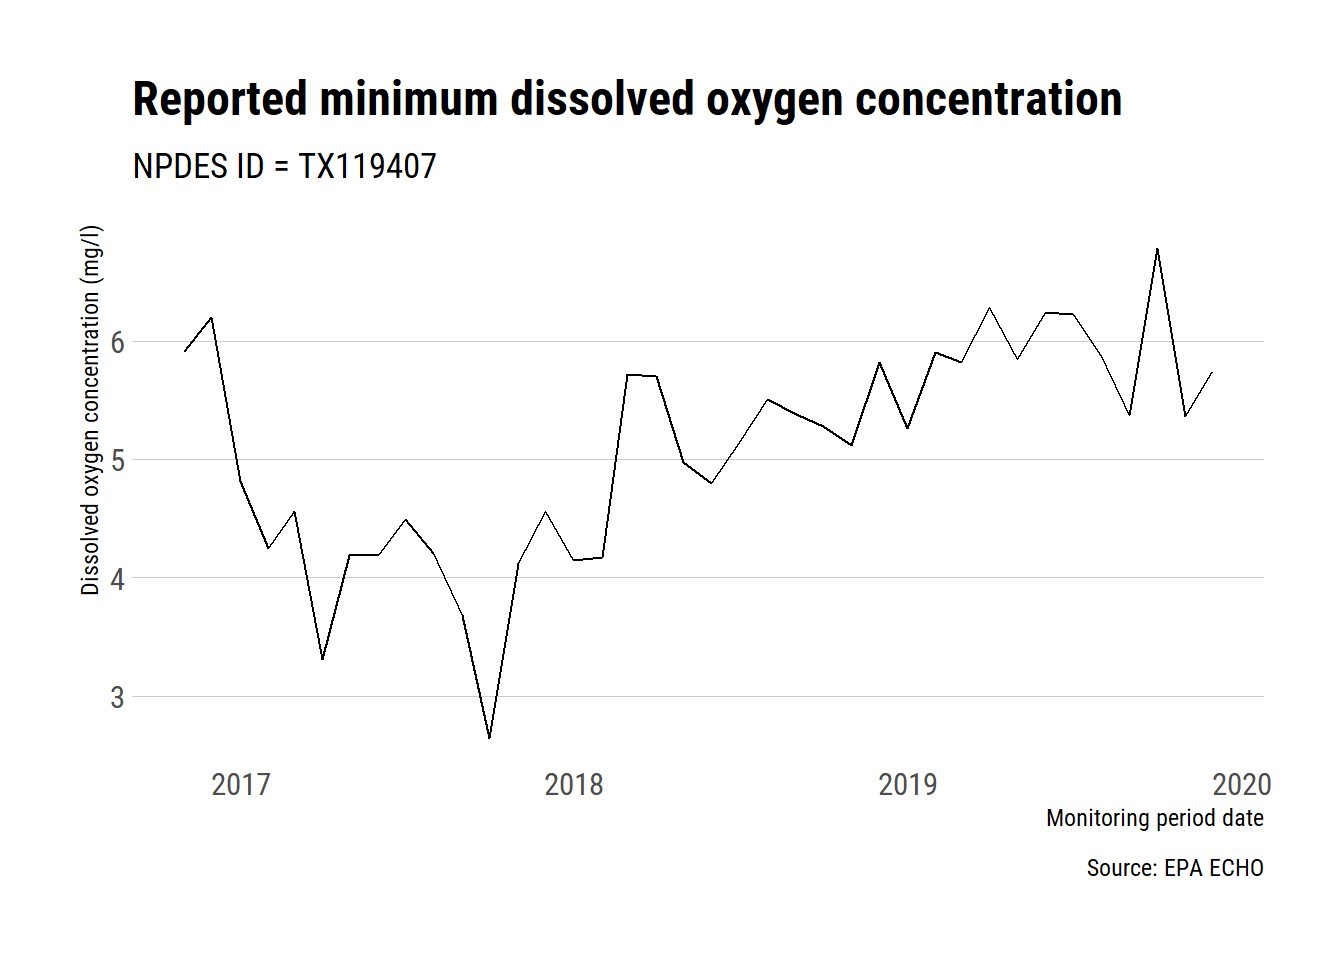
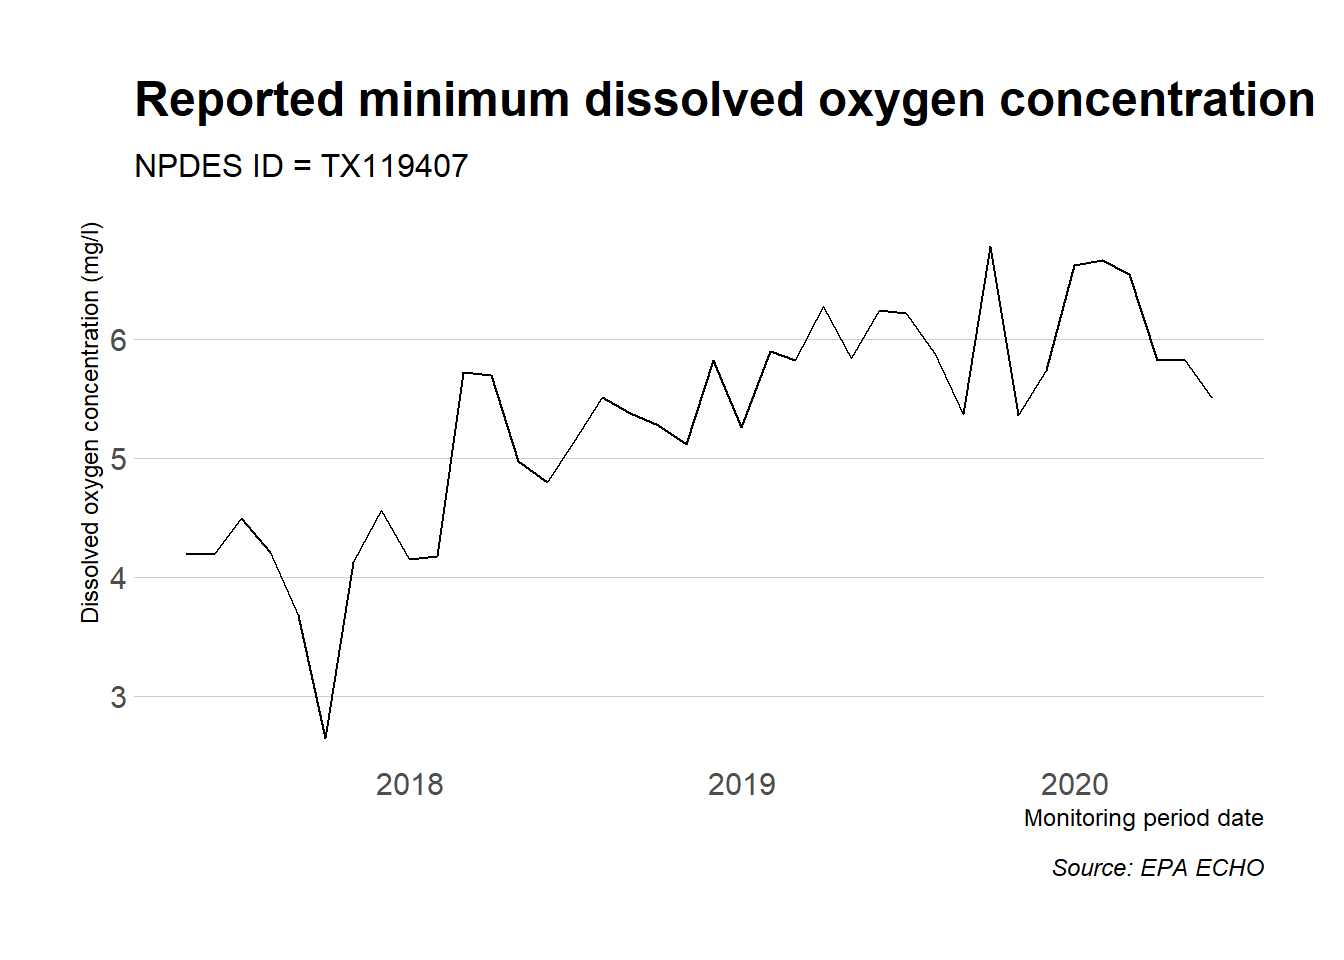
build README

diff --git a/README.md b/README.md
@@ -12,6 +12,7 @@ status](https://travis-ci.org/mps9506/echor.svg?branch=master)](https://travis-c
 status](https://ci.appveyor.com/api/projects/status/github/mps9506/echor?branch=master&svg=true)](https://ci.appveyor.com/project/mps9506/echor)
 [![Coverage
 status](https://codecov.io/gh/mps9506/echor/branch/master/graph/badge.svg)](https://codecov.io/github/mps9506/echor?branch=master)
+[![DOI](https://zenodo.org/badge/122131508.svg)](https://zenodo.org/badge/latestdoi/122131508)
 
 ## Overview
 
@@ -29,7 +30,7 @@ install.packages("echor")
 Or install the development version from github:
 
 ``` r
-devtools::install_github("mps9506/echor")
+remotes::install_github("mps9506/echor")
 ```
 
 ## Usage
@@ -71,10 +72,10 @@ head(df)
 #> # ... with 19 more variables: MasterExternalPermitNmbr <chr>, RegistryID <chr>,
 #> #   CWPCounty <chr>, CWPEPARegion <chr>, FacDerivedHuc <chr>, FacLat <dbl>,
 #> #   FacLong <dbl>, CWPTotalDesignFlowNmbr <dbl>,
-#> #   CWPActualAverageFlowNmbr <dbl>, DschToMs4 <chr>, ExposedActivity <chr>,
-#> #   Subsector <chr>, CWPVersionNmbr <dbl>, SubmittedDate <date>,
-#> #   CWPPermitTypeDesc <chr>, CWPIssueDate <date>, CWPTerminationDate <date>,
-#> #   CWPSNCStatus <chr>, CWPCsoOutfalls <dbl>
+#> #   CWPActualAverageFlowNmbr <dbl>, ReceivingMs4Name <chr>,
+#> #   AssociatedPollutant <chr>, MsgpPermitType <chr>, CWPPermitStatusDesc <chr>,
+#> #   CWPPermitTypeDesc <chr>, CWPIssueDate <date>, CWPEffectiveDate <date>,
+#> #   CWPExpirationDate <date>, CWPSNCStatusDate <date>, StateAuthGen <chr>
 ```
 
 The ECHO database can provide over 270 different columns. echor returns
@@ -143,7 +144,7 @@ ggmap(collegestation) +
   geom_label_repel(data = df, aes(x = coords_x, y = coords_y, label = SourceID),
                    point.padding = .5, min.segment.length = 0.1,
                    size = 2, color = "dodgerblue") +
-  theme_ipsum_rc(plot_margin = margin(5, 5, 5, 5)) +
+  theme_ipsum(plot_margin = margin(5, 5, 5, 5)) +
   labs(x = "Longitude", y = "Latitude", 
        title = "NPDES permits near Texas A&M",
        caption = "Source: EPA ECHO database")
@@ -169,7 +170,7 @@ df <- df %>%
 
 ggplot(df) +
   geom_line(aes(monitoring_period_end_date, dmr_value_nmbr)) +
-  theme_ipsum_rc(grid = "Y") +
+  theme_ipsum(grid = "Y") +
   labs(x = "Monitoring period date",
        y = "Dissolved oxygen concentration (mg/l)",
        title = "Reported minimum dissolved oxygen concentration",
@@ -184,7 +185,7 @@ ggplot(df) +
 ``` r
 sessioninfo::platform_info()
 #>  setting  value                       
-#>  version  R version 3.5.3 (2019-03-11)
+#>  version  R version 4.0.0 (2020-04-24)
 #>  os       Windows 10 x64              
 #>  system   x86_64, mingw32             
 #>  ui       RTerm                       
@@ -192,89 +193,95 @@ sessioninfo::platform_info()
 #>  collate  English_United States.1252  
 #>  ctype    English_United States.1252  
 #>  tz       America/Chicago             
-#>  date     2020-01-16
+#>  date     2020-06-17
 sessioninfo::package_info()
-#>  package     * version date       lib source                       
-#>  assertthat    0.2.1   2019-03-21 [1] CRAN (R 3.5.3)               
-#>  backports     1.1.5   2019-10-02 [1] CRAN (R 3.5.3)               
-#>  bitops        1.0-6   2013-08-17 [1] CRAN (R 3.5.2)               
-#>  broom         0.5.2   2019-04-07 [1] CRAN (R 3.5.3)               
-#>  cellranger    1.1.0   2016-07-27 [1] CRAN (R 3.5.3)               
-#>  class         7.3-15  2019-01-01 [1] CRAN (R 3.5.3)               
-#>  classInt      0.4-2   2019-10-17 [1] CRAN (R 3.5.3)               
-#>  cli           1.1.0   2019-03-19 [1] CRAN (R 3.5.3)               
-#>  colorspace    1.4-1   2019-03-18 [1] CRAN (R 3.5.3)               
-#>  crayon        1.3.4   2017-09-16 [1] CRAN (R 3.5.3)               
-#>  curl          4.2     2019-09-24 [1] CRAN (R 3.5.3)               
-#>  DBI           1.0.0   2018-05-02 [1] CRAN (R 3.5.3)               
-#>  digest        0.6.23  2019-11-23 [1] CRAN (R 3.5.3)               
-#>  dplyr       * 0.8.3   2019-07-04 [1] CRAN (R 3.5.3)               
-#>  e1071         1.7-3   2019-11-26 [1] CRAN (R 3.5.3)               
-#>  echor       * 0.1.4   2020-01-16 [1] local                        
-#>  evaluate      0.13    2019-02-12 [1] CRAN (R 3.5.3)               
-#>  extrafont   * 0.17    2014-12-08 [1] CRAN (R 3.5.2)               
-#>  extrafontdb   1.0     2012-06-11 [1] CRAN (R 3.5.2)               
-#>  fansi         0.4.0   2018-10-05 [1] CRAN (R 3.5.3)               
-#>  forcats     * 0.4.0   2019-02-17 [1] CRAN (R 3.5.3)               
-#>  gdtools       0.1.7   2018-02-27 [1] CRAN (R 3.5.3)               
-#>  generics      0.0.2   2018-11-29 [1] CRAN (R 3.5.3)               
-#>  geojsonsf     1.3.0   2019-01-10 [1] CRAN (R 3.5.3)               
-#>  ggmap       * 3.0.0   2019-02-05 [1] CRAN (R 3.5.3)               
-#>  ggplot2     * 3.2.1   2019-08-10 [1] CRAN (R 3.5.3)               
-#>  ggrepel     * 0.8.1   2019-05-07 [1] CRAN (R 3.5.3)               
-#>  glue          1.3.1   2019-03-12 [1] CRAN (R 3.5.3)               
-#>  gtable        0.3.0   2019-03-25 [1] CRAN (R 3.5.3)               
-#>  haven         2.1.0   2019-02-19 [1] CRAN (R 3.5.3)               
-#>  hms           0.4.2   2018-03-10 [1] CRAN (R 3.5.3)               
-#>  hrbrthemes  * 0.6.0   2019-01-21 [1] CRAN (R 3.5.3)               
-#>  htmltools     0.3.6   2017-04-28 [1] CRAN (R 3.5.3)               
-#>  httr          1.4.1   2019-08-05 [1] CRAN (R 3.5.3)               
-#>  jpeg          0.1-8   2014-01-23 [1] CRAN (R 3.5.2)               
-#>  jsonlite      1.6     2018-12-07 [1] CRAN (R 3.5.3)               
-#>  KernSmooth    2.23-15 2015-06-29 [1] CRAN (R 3.5.3)               
-#>  knitr         1.26    2019-11-12 [1] CRAN (R 3.5.3)               
-#>  labeling      0.3     2014-08-23 [1] CRAN (R 3.5.2)               
-#>  lattice       0.20-38 2018-11-04 [1] CRAN (R 3.5.3)               
-#>  lazyeval      0.2.2   2019-03-15 [1] CRAN (R 3.5.3)               
-#>  lifecycle     0.1.0   2019-08-01 [1] CRAN (R 3.5.3)               
-#>  lubridate     1.7.4   2018-04-11 [1] CRAN (R 3.5.3)               
-#>  magrittr      1.5     2014-11-22 [1] CRAN (R 3.5.3)               
-#>  modelr        0.1.4   2019-02-18 [1] CRAN (R 3.5.3)               
-#>  munsell       0.5.0   2018-06-12 [1] CRAN (R 3.5.3)               
-#>  nlme          3.1-137 2018-04-07 [1] CRAN (R 3.5.3)               
-#>  pillar        1.4.2   2019-06-29 [1] CRAN (R 3.5.3)               
-#>  pkgconfig     2.0.3   2019-09-22 [1] CRAN (R 3.5.3)               
-#>  plyr          1.8.4   2016-06-08 [1] CRAN (R 3.5.3)               
-#>  png           0.1-7   2013-12-03 [1] CRAN (R 3.5.2)               
-#>  purrr       * 0.3.3   2019-10-18 [1] CRAN (R 3.5.3)               
-#>  R6            2.4.1   2019-11-12 [1] CRAN (R 3.5.3)               
-#>  Rcpp          1.0.3   2019-11-08 [1] CRAN (R 3.5.3)               
-#>  readr       * 1.3.1   2018-12-21 [1] CRAN (R 3.5.3)               
-#>  readxl        1.3.1   2019-03-13 [1] CRAN (R 3.5.3)               
-#>  RgoogleMaps   1.4.4   2019-08-20 [1] CRAN (R 3.5.3)               
-#>  rjson         0.2.20  2018-06-08 [1] CRAN (R 3.5.2)               
-#>  rlang         0.4.2   2019-11-23 [1] CRAN (R 3.5.3)               
-#>  rmarkdown     2.0     2019-12-12 [1] CRAN (R 3.5.3)               
-#>  rstudioapi    0.10    2019-03-19 [1] CRAN (R 3.5.3)               
-#>  Rttf2pt1      1.3.7   2018-06-29 [1] CRAN (R 3.5.2)               
-#>  rvest         0.3.2   2016-06-17 [1] CRAN (R 3.5.3)               
-#>  scales        1.0.0   2018-08-09 [1] CRAN (R 3.5.3)               
-#>  sessioninfo   1.1.1   2018-11-05 [1] CRAN (R 3.5.3)               
-#>  sf          * 0.8-1   2019-12-12 [1] Github (r-spatial/sf@60208b7)
-#>  stringi       1.4.3   2019-03-12 [1] CRAN (R 3.5.3)               
-#>  stringr     * 1.4.0   2019-02-10 [1] CRAN (R 3.5.3)               
-#>  tibble      * 2.1.3   2019-06-06 [1] CRAN (R 3.5.3)               
-#>  tidyr       * 1.0.0   2019-09-11 [1] CRAN (R 3.5.3)               
-#>  tidyselect    0.2.5   2018-10-11 [1] CRAN (R 3.5.3)               
-#>  tidyverse   * 1.2.1   2017-11-14 [1] CRAN (R 3.5.3)               
-#>  units         0.6-5   2019-10-08 [1] CRAN (R 3.5.3)               
-#>  utf8          1.1.4   2018-05-24 [1] CRAN (R 3.5.3)               
-#>  vctrs         0.2.0   2019-07-05 [1] CRAN (R 3.5.3)               
-#>  withr         2.1.2   2018-03-15 [1] CRAN (R 3.5.3)               
-#>  xfun          0.12    2020-01-13 [1] CRAN (R 3.5.3)               
-#>  xml2          1.2.2   2019-08-09 [1] CRAN (R 3.5.3)               
-#>  yaml          2.2.0   2018-07-25 [1] CRAN (R 3.5.2)               
-#>  zeallot       0.1.0   2018-01-28 [1] CRAN (R 3.5.3)               
+#>  package     * version    date       lib source        
+#>  assertthat    0.2.1      2019-03-21 [1] CRAN (R 4.0.0)
+#>  backports     1.1.6      2020-04-05 [1] CRAN (R 4.0.0)
+#>  bitops        1.0-6      2013-08-17 [1] CRAN (R 4.0.0)
+#>  broom         0.5.6      2020-04-20 [1] CRAN (R 4.0.0)
+#>  cellranger    1.1.0      2016-07-27 [1] CRAN (R 4.0.0)
+#>  class         7.3-16     2020-03-25 [2] CRAN (R 4.0.0)
+#>  classInt      0.4-3      2020-04-07 [1] CRAN (R 4.0.0)
+#>  cli           2.0.2      2020-02-28 [1] CRAN (R 4.0.0)
+#>  colorspace    1.4-1      2019-03-18 [1] CRAN (R 4.0.0)
+#>  crayon        1.3.4      2017-09-16 [1] CRAN (R 4.0.0)
+#>  curl          4.3        2019-12-02 [1] CRAN (R 4.0.0)
+#>  DBI           1.1.0      2019-12-15 [1] CRAN (R 4.0.0)
+#>  dbplyr        1.4.3      2020-04-19 [1] CRAN (R 4.0.0)
+#>  digest        0.6.25     2020-02-23 [1] CRAN (R 4.0.0)
+#>  dplyr       * 0.8.5      2020-03-07 [1] CRAN (R 4.0.0)
+#>  e1071         1.7-3      2019-11-26 [1] CRAN (R 4.0.0)
+#>  echor       * 0.1.4.9999 2020-06-17 [1] local         
+#>  ellipsis      0.3.0      2019-09-20 [1] CRAN (R 4.0.0)
+#>  evaluate      0.14       2019-05-28 [1] CRAN (R 4.0.0)
+#>  extrafont   * 0.17       2014-12-08 [1] CRAN (R 4.0.0)
+#>  extrafontdb   1.0        2012-06-11 [1] CRAN (R 4.0.0)
+#>  fansi         0.4.1      2020-01-08 [1] CRAN (R 4.0.0)
+#>  farver        2.0.3      2020-01-16 [1] CRAN (R 4.0.0)
+#>  forcats     * 0.5.0      2020-03-01 [1] CRAN (R 4.0.0)
+#>  fs            1.4.1      2020-04-04 [1] CRAN (R 4.0.0)
+#>  gdtools       0.2.2      2020-04-03 [1] CRAN (R 4.0.0)
+#>  generics      0.0.2      2018-11-29 [1] CRAN (R 4.0.0)
+#>  geojsonsf     1.3.3      2020-03-18 [1] CRAN (R 4.0.0)
+#>  ggmap       * 3.0.0      2019-02-04 [1] CRAN (R 4.0.0)
+#>  ggplot2     * 3.3.0      2020-03-05 [1] CRAN (R 4.0.0)
+#>  ggrepel     * 0.8.2      2020-03-08 [1] CRAN (R 4.0.0)
+#>  glue          1.4.0      2020-04-03 [1] CRAN (R 4.0.0)
+#>  gtable        0.3.0      2019-03-25 [1] CRAN (R 4.0.0)
+#>  haven         2.2.0      2019-11-08 [1] CRAN (R 4.0.0)
+#>  hms           0.5.3      2020-01-08 [1] CRAN (R 4.0.0)
+#>  hrbrthemes  * 0.8.0      2020-03-06 [1] CRAN (R 4.0.0)
+#>  htmltools     0.4.0      2019-10-04 [1] CRAN (R 4.0.0)
+#>  httr          1.4.1      2019-08-05 [1] CRAN (R 4.0.0)
+#>  jpeg          0.1-8.1    2019-10-24 [1] CRAN (R 4.0.0)
+#>  jsonlite      1.6.1      2020-02-02 [1] CRAN (R 4.0.0)
+#>  KernSmooth    2.23-16    2019-10-15 [2] CRAN (R 4.0.0)
+#>  knitr         1.28       2020-02-06 [1] CRAN (R 4.0.0)
+#>  labeling      0.3        2014-08-23 [1] CRAN (R 4.0.0)
+#>  lattice       0.20-41    2020-04-02 [2] CRAN (R 4.0.0)
+#>  lifecycle     0.2.0      2020-03-06 [1] CRAN (R 4.0.0)
+#>  lubridate     1.7.8      2020-04-06 [1] CRAN (R 4.0.0)
+#>  magrittr      1.5        2014-11-22 [1] CRAN (R 4.0.0)
+#>  modelr        0.1.7      2020-04-30 [1] CRAN (R 4.0.0)
+#>  munsell       0.5.0      2018-06-12 [1] CRAN (R 4.0.0)
+#>  nlme          3.1-147    2020-04-13 [2] CRAN (R 4.0.0)
+#>  pillar        1.4.3      2019-12-20 [1] CRAN (R 4.0.0)
+#>  pkgconfig     2.0.3      2019-09-22 [1] CRAN (R 4.0.0)
+#>  plyr          1.8.6      2020-03-03 [1] CRAN (R 4.0.0)
+#>  png           0.1-7      2013-12-03 [1] CRAN (R 4.0.0)
+#>  purrr       * 0.3.4      2020-04-17 [1] CRAN (R 4.0.0)
+#>  R6            2.4.1      2019-11-12 [1] CRAN (R 4.0.0)
+#>  Rcpp          1.0.4.6    2020-04-09 [1] CRAN (R 4.0.0)
+#>  readr       * 1.3.1      2018-12-21 [1] CRAN (R 4.0.0)
+#>  readxl        1.3.1      2019-03-13 [1] CRAN (R 4.0.0)
+#>  reprex        0.3.0      2019-05-16 [1] CRAN (R 4.0.0)
+#>  RgoogleMaps   1.4.5.3    2020-02-12 [1] CRAN (R 4.0.0)
+#>  rjson         0.2.20     2018-06-08 [1] CRAN (R 4.0.0)
+#>  rlang         0.4.6      2020-05-02 [1] CRAN (R 4.0.0)
+#>  rmarkdown     2.1        2020-01-20 [1] CRAN (R 4.0.0)
+#>  rstudioapi    0.11       2020-02-07 [1] CRAN (R 4.0.0)
+#>  Rttf2pt1      1.3.8      2020-01-10 [1] CRAN (R 4.0.0)
+#>  rvest         0.3.5      2019-11-08 [1] CRAN (R 4.0.0)
+#>  scales        1.1.0      2019-11-18 [1] CRAN (R 4.0.0)
+#>  sessioninfo   1.1.1      2018-11-05 [1] CRAN (R 4.0.0)
+#>  sf          * 0.9-2      2020-04-14 [1] CRAN (R 4.0.0)
+#>  sp            1.4-1      2020-02-28 [1] CRAN (R 4.0.0)
+#>  stringi       1.4.6      2020-02-17 [1] CRAN (R 4.0.0)
+#>  stringr     * 1.4.0      2019-02-10 [1] CRAN (R 4.0.0)
+#>  systemfonts   0.2.3      2020-06-09 [1] CRAN (R 4.0.0)
+#>  tibble      * 3.0.1      2020-04-20 [1] CRAN (R 4.0.0)
+#>  tidyr       * 1.0.2      2020-01-24 [1] CRAN (R 4.0.0)
+#>  tidyselect    1.0.0      2020-01-27 [1] CRAN (R 4.0.0)
+#>  tidyverse   * 1.3.0      2019-11-21 [1] CRAN (R 4.0.0)
+#>  units         0.6-6      2020-03-16 [1] CRAN (R 4.0.0)
+#>  utf8          1.1.4      2018-05-24 [1] CRAN (R 4.0.0)
+#>  vctrs         0.2.4      2020-03-10 [1] CRAN (R 4.0.0)
+#>  withr         2.2.0      2020-04-20 [1] CRAN (R 4.0.0)
+#>  xfun          0.13       2020-04-13 [1] CRAN (R 4.0.0)
+#>  xml2          1.3.2      2020-04-23 [1] CRAN (R 4.0.0)
+#>  yaml          2.2.1      2020-02-01 [1] CRAN (R 4.0.0)
 #> 
-#> [1] C:/Users/michael.schramm/Documents/R/R-3.5.3/library
+#> [1] C:/Users/Michael/Documents/R/win-library/4.0
+#> [2] C:/Program Files/R/R-4.0.0/library
 ```
